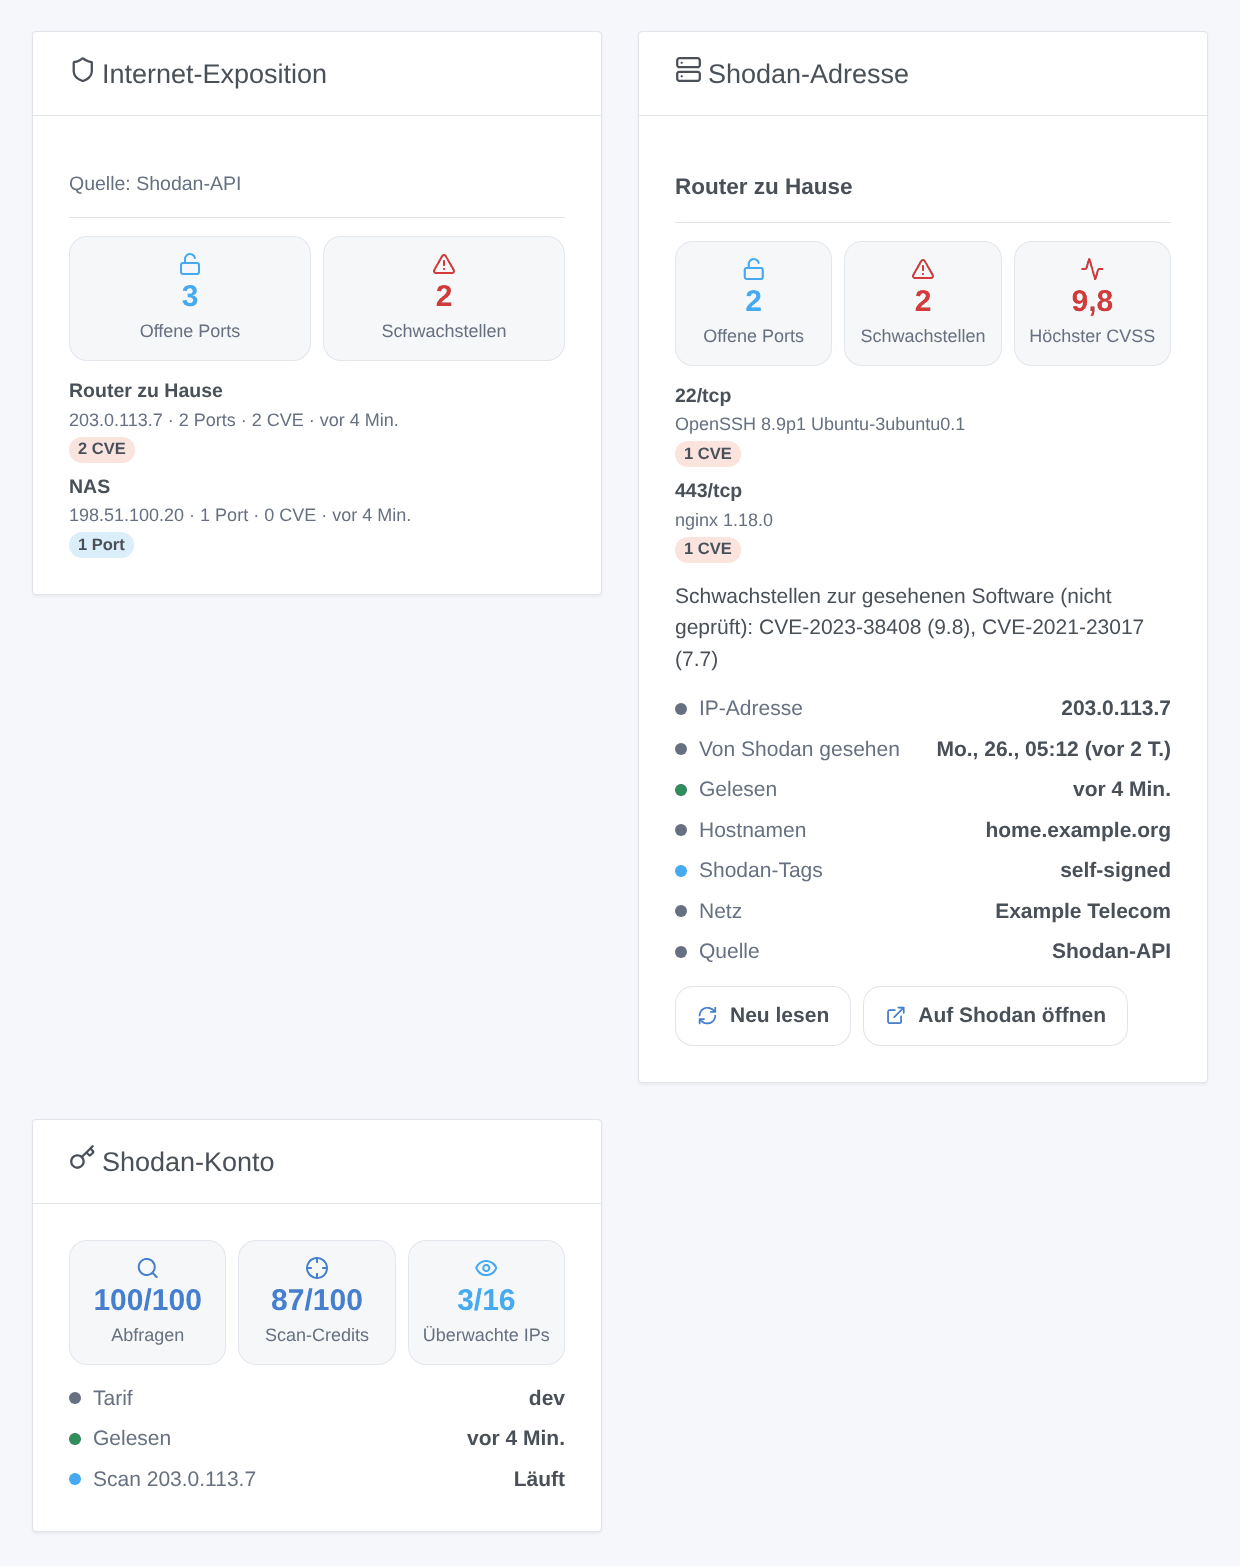
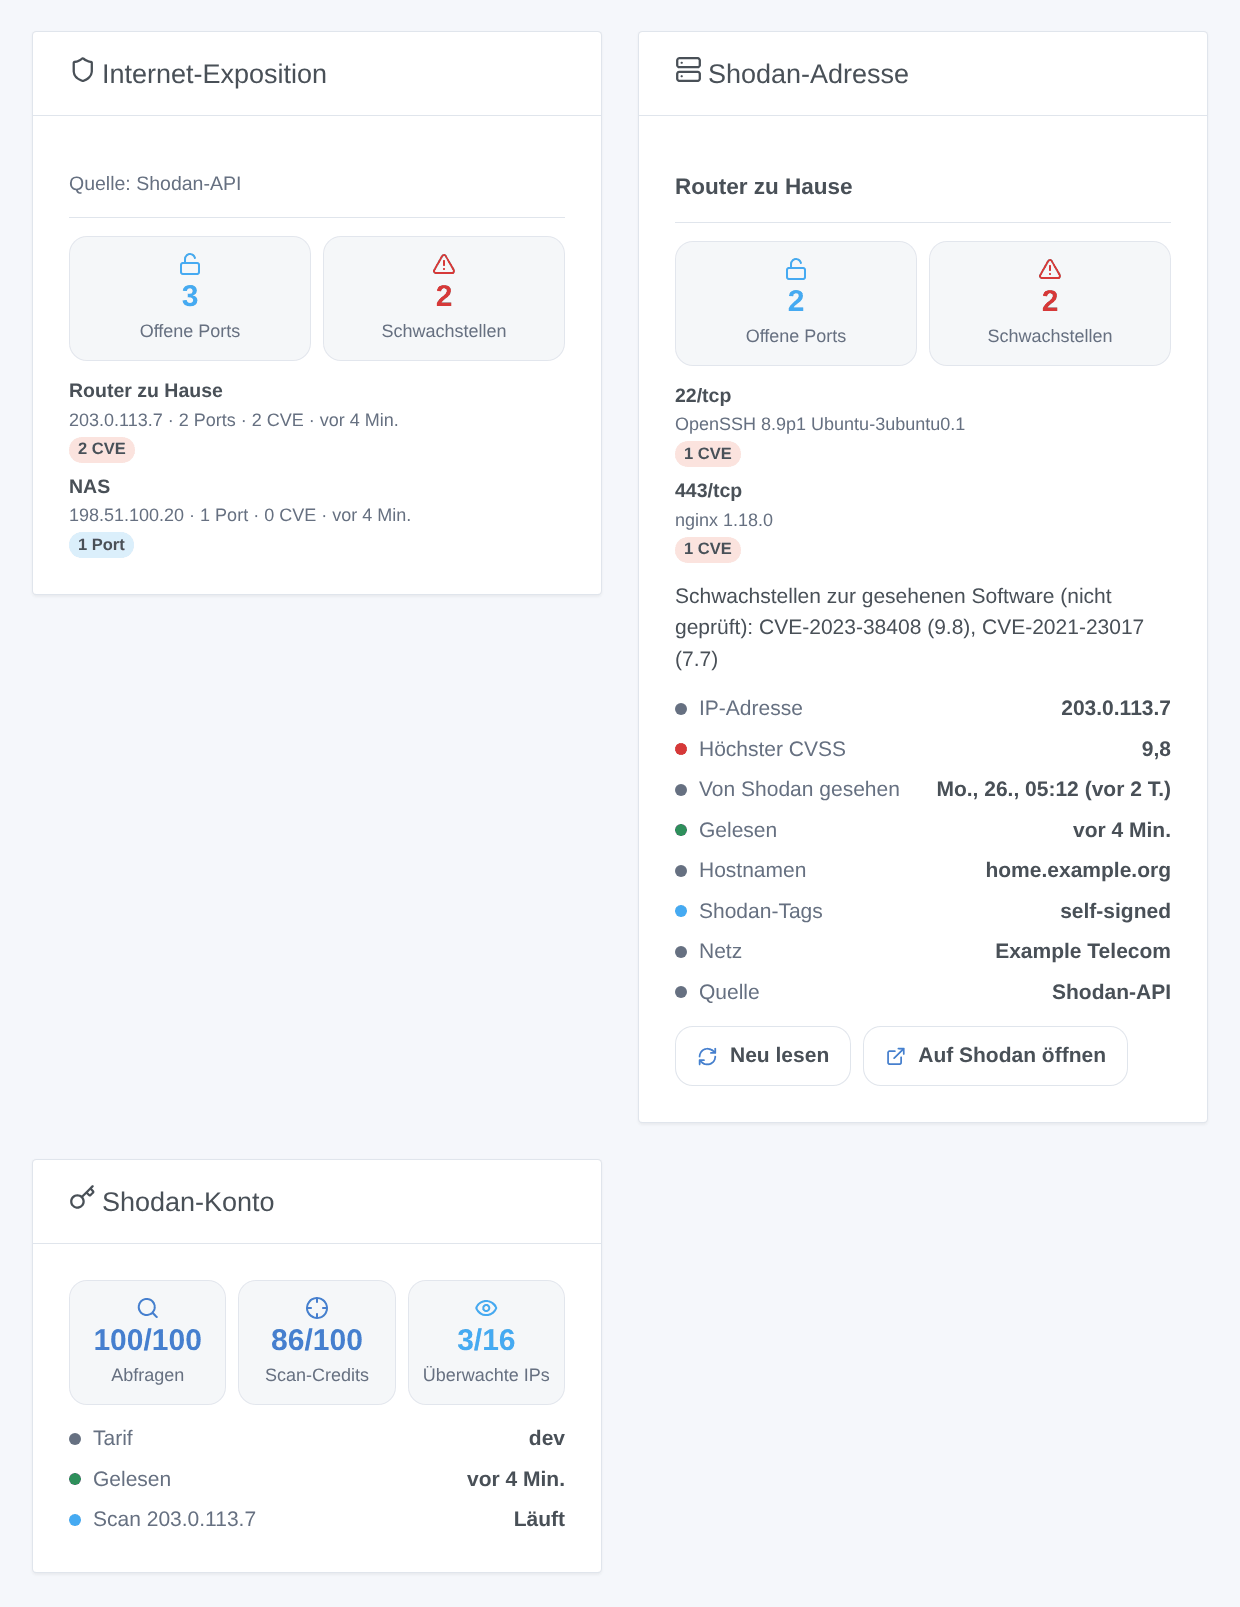
fix(widgets): keep the "Open on Shodan" button when CVE are found
With an API key and CVE, the address widget held 9 components and the core
dropped the last one, the link to Shodan. The highest CVSS moves from a tile
to a status row. The widget test now reads the list validateWidgetContent
returns, which caught it.

diff --git a/test/app.test.js b/test/app.test.js
@@ -239,16 +239,24 @@ test('with a key: the API (services, CVSS, last scan), the credits; never the ke
   await createAll(gladys);
   assert.equal(lastState(gladys, id('public', 'ports')).text, '22/tcp, 443/tcp');
   const content = await widget(gladys, WIDGETS.TARGET, { language: 'fr' });
-  assert.deepEqual(validateWidgetContent(content).errors ?? [], []);
+  assert.deepEqual(validateWidgetContent(content), []);
   const tiles = content.components.filter((component) => component.type === 'value');
   assert.deepEqual(
     tiles.map((tile) => [tile.label, tile.value]),
     [
       ['Ports ouverts', 2],
       ['Vulnérabilités', 2],
+    ],
+  );
+  const status = content.components.find((component) => component.type === 'status').items;
+  assert.deepEqual(
+    status.slice(0, 2).map((row) => [row.label, row.value]),
+    [
+      ['Adresse IP', '203.0.113.7'],
       ['CVSS maximal', '9,8'],
     ],
   );
+  assert.equal(content.components.at(-1).link.url.startsWith('https://www.shodan.io/'), true);
   const cards = content.components.find((component) => component.type === 'card-list').items;
   assert.deepEqual(
     cards.map((card) => [card.title, card.subtitle, card.badge?.text]),
@@ -258,7 +266,7 @@ test('with a key: the API (services, CVSS, last scan), the credits; never the ke
     ],
   );
   const account = await widget(gladys, WIDGETS.ACCOUNT, { language: 'en' });
-  assert.deepEqual(validateWidgetContent(account).errors ?? [], []);
+  assert.deepEqual(validateWidgetContent(account), []);
   assert.equal(account.components[1].value, '87/100');
   const outputs = (await gladys.fake.sceneAction(SCENE_ACTIONS.GET_TARGET, {})).data.outputs;
   assert.equal(outputs.max_cvss, 9.8);
@@ -359,7 +367,7 @@ test('widgets: every content valid in the four languages; the button reads again
   for (const language of LANGUAGES) {
     for (const key of Object.values(WIDGETS)) {
       const content = await widget(gladys, key, { language });
-      assert.deepEqual(validateWidgetContent(content).errors ?? [], [], `${key} ${language}`);
+      assert.deepEqual(validateWidgetContent(content), [], `${key} ${language}`);
     }
   }
   const overview = await widget(gladys, WIDGETS.OVERVIEW, { language: 'en' });

diff --git a/src/widgets.js b/src/widgets.js
@@ -300,15 +300,6 @@ function buildTargetWidget({ view, language, now, timeZone }) {
       color: reading.vulns.length ? cvssColor(top) : WIDGET_COLORS.SUCCESS,
     },
   ];
-  if (Number.isFinite(top)) {
-    components.push({
-      type: 'value',
-      label: clip(t('tileCvss', language), 24),
-      value: formatNumber(top, language, 1),
-      icon: 'activity',
-      color: cvssColor(top),
-    });
-  }
   if (reading.ports.length) {
     components.push({
       type: 'card-list',
@@ -335,6 +326,16 @@ function buildTargetWidget({ view, language, now, timeZone }) {
       color: WIDGET_COLORS.NEUTRAL,
     },
   ];
+  // The highest CVSS is a status row, not a tile: with it as a third tile the
+  // card held 9 components, and the core drops what goes past 8 (the
+  // "Open on Shodan" button).
+  if (Number.isFinite(top)) {
+    rows.push({
+      label: clip(t('tileCvss', language), 40),
+      value: formatNumber(top, language, 1),
+      color: cvssColor(top),
+    });
+  }
   if (Number.isFinite(reading.lastUpdate)) {
     rows.push({
       label: clip(t('rowLastScan', language), 40),

diff --git a/docs/es.md b/docs/es.md
@@ -61,7 +61,7 @@ Todas las funciones son de solo lectura y guardan su historial. Shodan asocia la
 ![El widget Exposición en Internet con los puertos abiertos y las vulnerabilidades de las direcciones vigiladas, y el widget Dirección Shodan con los servicios y las CVE de una dirección (ilustración generada, no una captura de pantalla)](https://raw.githubusercontent.com/William-De71/gladys-shodan/main/docs/assets/widgets.es.png)
 
 - **Exposición en Internet**: mosaicos con el total de puertos abiertos y vulnerabilidades, luego una tarjeta por dirección, la más preocupante primero (etiquetas de alarma compromised, malware o doublepulsar, luego CVE, luego errores, luego puertos abiertos). Cada tarjeta muestra los puertos, las CVE, las etiquetas y un enlace a la página de la dirección en shodan.io; una leyenda indica la fuente.
-- **Dirección Shodan**: una dirección (elija su dispositivo en los ajustes del widget; vacío = la dirección pública): mosaicos puertos, vulnerabilidades y CVSS más alto (con una clave), una tarjeta por puerto o servicio con su producto, versión y CVE (puntuaciones y descripciones), un texto que lista las CVE, líneas de estado (IP, vista por Shodan, leída, nombres de host, etiquetas, red, fuente), un botón **Volver a leer** (una vez por minuto como máximo) y un botón **Ver en Shodan**.
+- **Dirección Shodan**: una dirección (elija su dispositivo en los ajustes del widget; vacío = la dirección pública): mosaicos puertos y vulnerabilidades, una tarjeta por puerto o servicio con su producto, versión y CVE (puntuaciones y descripciones), un texto que lista las CVE, líneas de estado (IP, CVSS más alto con una clave, vista por Shodan, leída, nombres de host, etiquetas, red, fuente), un botón **Volver a leer** (una vez por minuto como máximo) y un botón **Ver en Shodan**.
 - **Cuenta Shodan**: créditos de consulta, créditos de escaneo e IP vigiladas frente a sus límites, el plan y los últimos escaneos. Sin clave, indica que hace falta una clave.
 
 ### Escenas

diff --git a/docs/fr.md b/docs/fr.md
@@ -61,7 +61,7 @@ Toutes les fonctionnalités sont en lecture seule et gardent leur historique. Le
 ![Le widget Exposition Internet avec les ports ouverts et les vulnérabilités des adresses surveillées, et le widget Adresse Shodan avec les services et les CVE d’une adresse (illustration générée, pas une capture d’écran)](https://raw.githubusercontent.com/William-De71/gladys-shodan/main/docs/assets/widgets.fr.png)
 
 - **Exposition Internet** : des tuiles avec le total des ports ouverts et des vulnérabilités, puis une carte par adresse, la plus préoccupante d’abord (étiquettes d’alarme compromised, malware ou doublepulsar, puis CVE, puis erreurs, puis ports ouverts). Chaque carte montre les ports, les CVE, les étiquettes et un lien vers la page de l’adresse sur shodan.io ; une légende indique la source.
-- **Adresse Shodan** : une adresse (choisissez son appareil dans les réglages du widget ; vide = l’adresse publique) : tuiles ports, vulnérabilités et CVSS le plus élevé (avec une clé), une carte par port ou service avec son produit, sa version et ses CVE (scores et descriptions), un texte qui liste les CVE, des lignes d’état (IP, vue par Shodan, lue, noms d’hôte, étiquettes, réseau, source), un bouton **Relire** (une fois par minute au plus) et un bouton **Voir sur Shodan**.
+- **Adresse Shodan** : une adresse (choisissez son appareil dans les réglages du widget ; vide = l’adresse publique) : tuiles ports et vulnérabilités, une carte par port ou service avec son produit, sa version et ses CVE (scores et descriptions), un texte qui liste les CVE, des lignes d’état (IP, CVSS le plus élevé avec une clé, vue par Shodan, lue, noms d’hôte, étiquettes, réseau, source), un bouton **Relire** (une fois par minute au plus) et un bouton **Voir sur Shodan**.
 - **Compte Shodan** : crédits de requête, crédits de scan et IP surveillées face à leurs limites, l’offre et les derniers scans. Sans clé, il indique qu’une clé est nécessaire.
 
 ### Scènes

diff --git a/docs/de.md b/docs/de.md
@@ -61,7 +61,7 @@ Alle Funktionen sind nur lesend und behalten ihren Verlauf. Die Schwachstellen o
 ![Das Widget Internet-Exposition mit den offenen Ports und Schwachstellen der überwachten Adressen und das Widget Shodan-Adresse mit den Diensten und CVE einer Adresse (generierte Illustration, kein Screenshot)](https://raw.githubusercontent.com/William-De71/gladys-shodan/main/docs/assets/widgets.de.png)
 
 - **Internet-Exposition**: Kacheln mit der Summe der offenen Ports und Schwachstellen, dann eine Karte pro Adresse, die bedenklichste zuerst (Alarm-Tags compromised, malware oder doublepulsar, dann CVE, dann Fehler, dann offene Ports). Jede Karte zeigt die Ports, die CVE, die Tags und einen Link zur Seite der Adresse auf shodan.io; eine Legende nennt die Quelle.
-- **Shodan-Adresse**: eine Adresse (wähle ihr Gerät in den Einstellungen des Widgets; leer = die öffentliche Adresse): Kacheln Ports, Schwachstellen und höchster CVSS-Wert (mit Schlüssel), eine Karte pro Port oder Dienst mit Produkt, Version und CVE (Werte und Beschreibungen), ein Text mit den CVE, Statuszeilen (IP, zuletzt von Shodan gesehen, gelesen, Hostnamen, Tags, Netzwerk, Quelle), eine Schaltfläche **Neu lesen** (höchstens einmal pro Minute) und eine Schaltfläche **Auf Shodan öffnen**.
+- **Shodan-Adresse**: eine Adresse (wähle ihr Gerät in den Einstellungen des Widgets; leer = die öffentliche Adresse): Kacheln Ports und Schwachstellen, eine Karte pro Port oder Dienst mit Produkt, Version und CVE (Werte und Beschreibungen), ein Text mit den CVE, Statuszeilen (IP, höchster CVSS-Wert mit Schlüssel, zuletzt von Shodan gesehen, gelesen, Hostnamen, Tags, Netzwerk, Quelle), eine Schaltfläche **Neu lesen** (höchstens einmal pro Minute) und eine Schaltfläche **Auf Shodan öffnen**.
 - **Shodan-Konto**: Abfrage-Credits, Scan-Credits und überwachte IPs gegenüber ihren Grenzen, der Tarif und die letzten Scans. Ohne Schlüssel sagt es, dass ein Schlüssel nötig ist.
 
 ### Szenen

diff --git a/docs/en.md b/docs/en.md
@@ -61,7 +61,7 @@ All features are read only and keep their history. The vulnerabilities are match
 ![The Internet exposure widget with the open ports and vulnerabilities of the watched addresses, and the Shodan address widget with the services and CVE of one address (generated illustration, not a screenshot)](https://raw.githubusercontent.com/William-De71/gladys-shodan/main/docs/assets/widgets.en.png)
 
 - **Internet exposure**: tiles with the total open ports and vulnerabilities, then one card per address, the worst first (alarm tags compromised, malware or doublepulsar, then CVE, then errors, then open ports). Each card shows the ports, the CVE, the tags and a link to the page of the address on shodan.io; a caption tells the source.
-- **Shodan address**: one address (choose its device in the settings of the widget; empty = the public address): tiles ports, vulnerabilities and highest CVSS (with a key), one card per port or service with its product, version and CVE (scores and descriptions), a text listing the CVE, status rows (IP, last seen by Shodan, read, host names, tags, network, source), a **Read again** button (once a minute at most) and an **Open on Shodan** button.
+- **Shodan address**: one address (choose its device in the settings of the widget; empty = the public address): tiles ports and vulnerabilities, one card per port or service with its product, version and CVE (scores and descriptions), a text listing the CVE, status rows (IP, highest CVSS with a key, last seen by Shodan, read, host names, tags, network, source), a **Read again** button (once a minute at most) and an **Open on Shodan** button.
 - **Shodan account**: query credits, scan credits and monitored IPs against their limits, the plan and the last scans. Without a key, it says a key is needed.
 
 ### Scenes

diff --git a/README.fr.md b/README.fr.md
@@ -89,7 +89,7 @@ sequenceDiagram
 **Widgets** :
 
 - **Exposition Internet** : des tuiles avec le total des ports ouverts et des vulnérabilités, puis une carte par adresse, la plus préoccupante d’abord (étiquettes d’alarme compromised / malware / doublepulsar, puis CVE, puis erreurs, puis ports ouverts), chacune avec ses ports, ses CVE, ses étiquettes et un lien vers sa page sur shodan.io ; une légende indique la source.
-- **Adresse Shodan** : une adresse (réglage : un appareil ; vide = l’adresse publique) : tuiles ports, vulnérabilités et CVSS le plus élevé (avec une clé), une carte par port / service avec son produit, sa version et ses CVE (scores et descriptions), un texte qui liste les CVE, des lignes d’état (IP, vue par Shodan, lue, noms d’hôte, étiquettes, réseau, source), un bouton **Relire** (une fois par minute au plus) et un bouton **Voir sur Shodan**.
+- **Adresse Shodan** : une adresse (réglage : un appareil ; vide = l’adresse publique) : tuiles ports et vulnérabilités, une carte par port / service avec son produit, sa version et ses CVE (scores et descriptions), un texte qui liste les CVE, des lignes d’état (IP, CVSS le plus élevé avec une clé, vue par Shodan, lue, noms d’hôte, étiquettes, réseau, source), un bouton **Relire** (une fois par minute au plus) et un bouton **Voir sur Shodan**.
 - **Compte Shodan** : crédits de requête, crédits de scan et IP surveillées face à leurs limites, l’offre, les derniers scans ; sans clé, il indique qu’une clé est nécessaire.
 
 **Déclencheurs** (un événement par transition, jamais à la première lecture, jamais à la suite d’une action de scène ; 10 événements d’un même type au plus par adresse et par lecture) :

diff --git a/README.es.md b/README.es.md
@@ -89,7 +89,7 @@ sequenceDiagram
 **Widgets**:
 
 - **Exposición en Internet**: mosaicos con el total de puertos abiertos y vulnerabilidades, luego una tarjeta por dirección, la más preocupante primero (etiquetas de alarma compromised / malware / doublepulsar, luego CVE, luego errores, luego puertos abiertos), cada una con sus puertos, CVE, etiquetas y un enlace a su página en shodan.io; una leyenda indica la fuente.
-- **Dirección Shodan**: una dirección (ajuste: un dispositivo; vacío = la dirección pública): mosaicos puertos, vulnerabilidades y CVSS más alto (con una clave), una tarjeta por puerto / servicio con su producto, versión y CVE (puntuaciones y descripciones), un texto que lista las CVE, líneas de estado (IP, vista por Shodan, leída, nombres de host, etiquetas, red, fuente), un botón **Volver a leer** (una vez por minuto como máximo) y un botón **Ver en Shodan**.
+- **Dirección Shodan**: una dirección (ajuste: un dispositivo; vacío = la dirección pública): mosaicos puertos y vulnerabilidades, una tarjeta por puerto / servicio con su producto, versión y CVE (puntuaciones y descripciones), un texto que lista las CVE, líneas de estado (IP, CVSS más alto con una clave, vista por Shodan, leída, nombres de host, etiquetas, red, fuente), un botón **Volver a leer** (una vez por minuto como máximo) y un botón **Ver en Shodan**.
 - **Cuenta Shodan**: créditos de consulta, créditos de escaneo e IP vigiladas frente a sus límites, el plan, los últimos escaneos; sin clave indica que hace falta una clave.
 
 **Disparadores** (un evento por transición, nunca en la primera lectura, nunca como resultado de una acción de escena; como máximo 10 eventos de un mismo tipo por dirección y por lectura):

diff --git a/README.de.md b/README.de.md
@@ -89,7 +89,7 @@ sequenceDiagram
 **Widgets**:
 
 - **Internet-Exposition**: Kacheln mit der Summe der offenen Ports und Schwachstellen, dann eine Karte pro Adresse, die bedenklichste zuerst (Alarm-Tags compromised / malware / doublepulsar, dann CVE, dann Fehler, dann offene Ports), jede mit ihren Ports, CVE, Tags und einem Link zu ihrer Seite auf shodan.io; eine Legende nennt die Quelle.
-- **Shodan-Adresse**: eine Adresse (Einstellung: ein Gerät; leer = die öffentliche Adresse): Kacheln Ports, Schwachstellen und höchster CVSS-Wert (mit Schlüssel), eine Karte pro Port / Dienst mit Produkt, Version und CVE (Werte und Beschreibungen), ein Text mit den CVE, Statuszeilen (IP, zuletzt von Shodan gesehen, gelesen, Hostnamen, Tags, Netzwerk, Quelle), eine Schaltfläche **Neu lesen** (höchstens einmal pro Minute) und eine Schaltfläche **Auf Shodan öffnen**.
+- **Shodan-Adresse**: eine Adresse (Einstellung: ein Gerät; leer = die öffentliche Adresse): Kacheln Ports und Schwachstellen, eine Karte pro Port / Dienst mit Produkt, Version und CVE (Werte und Beschreibungen), ein Text mit den CVE, Statuszeilen (IP, höchster CVSS-Wert mit Schlüssel, zuletzt von Shodan gesehen, gelesen, Hostnamen, Tags, Netzwerk, Quelle), eine Schaltfläche **Neu lesen** (höchstens einmal pro Minute) und eine Schaltfläche **Auf Shodan öffnen**.
 - **Shodan-Konto**: Abfrage-Credits, Scan-Credits und überwachte IPs gegenüber ihren Grenzen, der Tarif, die letzten Scans; ohne Schlüssel sagt es, dass ein Schlüssel nötig ist.
 
 **Auslöser** (ein Ereignis pro Übergang, nie bei der ersten Abfrage, nie als Folge einer Szenenaktion; höchstens 10 Ereignisse einer Art pro Adresse und Abfrage):

diff --git a/README.md b/README.md
@@ -89,7 +89,7 @@ sequenceDiagram
 **Widgets**:
 
 - **Internet exposure**: tiles with the total open ports and vulnerabilities, then one card per address, the worst first (alarm tags compromised / malware / doublepulsar, then CVE, then errors, then open ports), each with its ports, CVE, tags and a link to its page on shodan.io; a caption tells the source.
-- **Shodan address**: one address (setting: a device; empty = the public address): tiles ports, vulnerabilities and highest CVSS (with a key), one card per port / service with its product, version and CVE (scores and descriptions), a text listing the CVE, status rows (IP, last seen by Shodan, read, host names, tags, network, source), a **Read again** button (once a minute at most) and an **Open on Shodan** button.
+- **Shodan address**: one address (setting: a device; empty = the public address): tiles ports and vulnerabilities, one card per port / service with its product, version and CVE (scores and descriptions), a text listing the CVE, status rows (IP, highest CVSS with a key, last seen by Shodan, read, host names, tags, network, source), a **Read again** button (once a minute at most) and an **Open on Shodan** button.
 - **Shodan account**: query credits, scan credits and monitored IPs against their limits, the plan, the last scans; without a key it says a key is needed.
 
 **Triggers** (one event per transition, never at the first reading, never as the result of a scene action; at most 10 events of a kind per address and per reading):
